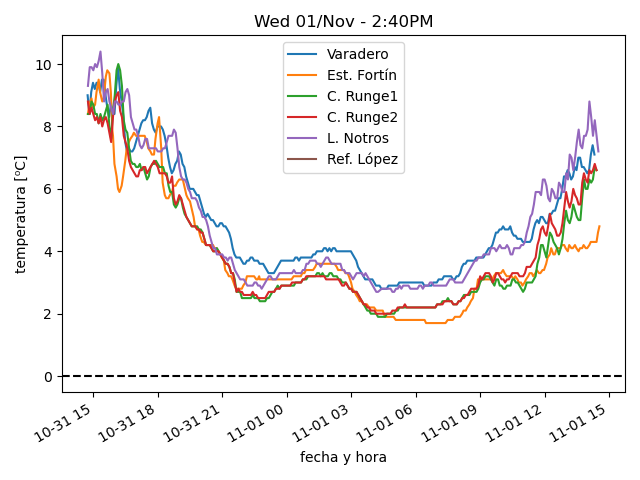
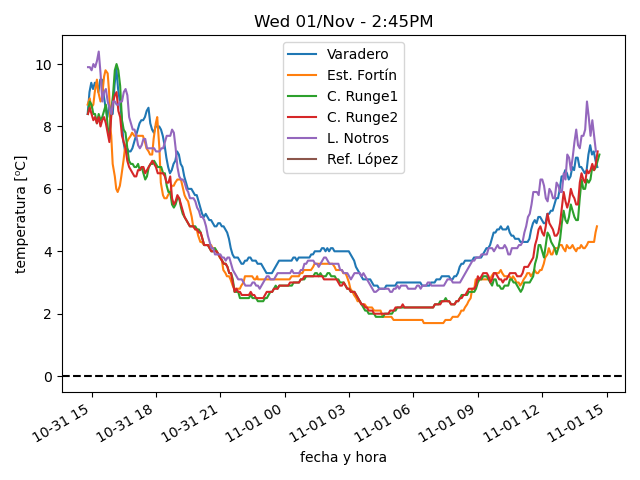
actualiza datos

diff --git a/estaciones/estacion1.html b/estaciones/estacion1.html
@@ -18,32 +18,32 @@
     </tr>
     <tr>
      <td class="stats_data">
-      2:19PM
+      2:34PM
      </td>
     </tr>
     <tr>
      <td class="stats_data">
-      7.1⁰C
+      6.7⁰C
      </td>
     </tr>
     <tr>
      <td class="stats_data">
-      4.3⁰C
+      4.2⁰C
      </td>
     </tr>
     <tr>
      <td class="stats_data">
-      82.1%
+      84.1%
      </td>
     </tr>
     <tr>
      <td class="stats_data">
-      1033.53hPa
+      1033.19hPa
      </td>
     </tr>
     <tr>
      <td class="stats_data">
-      3.2/4.8 km/hr SE
+      3.2/4.6 km/hr ENE
      </td>
     </tr>
     <tr>
@@ -53,12 +53,12 @@
     </tr>
     <tr>
      <td class="stats_data">
-      6.0
+      5.0
      </td>
     </tr>
     <tr>
      <td class="stats_data">
-      637.3 W/m²
+      515.3 W/m²
      </td>
     </tr>
    </tbody>

diff --git a/estaciones/estacion4.html b/estaciones/estacion4.html
@@ -18,22 +18,22 @@
     </tr>
     <tr>
      <td class="stats_data">
-      2:24PM
+      2:34PM
      </td>
     </tr>
     <tr>
      <td class="stats_data">
-      6.6⁰C
+      7.2⁰C
      </td>
     </tr>
     <tr>
      <td class="stats_data">
-      3.3⁰C
+      4.6⁰C
      </td>
     </tr>
     <tr>
      <td class="stats_data">
-      79.8%
+      83.5%
      </td>
     </tr>
     <tr>
@@ -43,7 +43,7 @@
     </tr>
     <tr>
      <td class="stats_data">
-      2.4/4.0 km/hr S
+      1.9/2.9 km/hr WSW
      </td>
     </tr>
     <tr>
@@ -53,12 +53,12 @@
     </tr>
     <tr>
      <td class="stats_data">
-      9.0
+      8.0
      </td>
     </tr>
     <tr>
      <td class="stats_data">
-      954.5 W/m²
+      828.5 W/m²
      </td>
     </tr>
    </tbody>

diff --git a/estaciones/estacion3.html b/estaciones/estacion3.html
@@ -18,32 +18,32 @@
     </tr>
     <tr>
      <td class="stats_data">
-      2:24PM
+      2:39PM
      </td>
     </tr>
     <tr>
      <td class="stats_data">
-      6.6⁰C
+      7.1⁰C
      </td>
     </tr>
     <tr>
      <td class="stats_data">
-      3.8⁰C
+      4.4⁰C
      </td>
     </tr>
     <tr>
      <td class="stats_data">
-      82.5%
+      83.0%
      </td>
     </tr>
     <tr>
      <td class="stats_data">
-      1012.73hPa
+      1012.63hPa
      </td>
     </tr>
     <tr>
      <td class="stats_data">
-      5.2/7.9 km/hr SSW
+      4.3/7.0 km/hr SSW
      </td>
     </tr>
     <tr>
@@ -58,7 +58,7 @@
     </tr>
     <tr>
      <td class="stats_data">
-      1037.2 W/m²
+      973.8 W/m²
      </td>
     </tr>
    </tbody>
